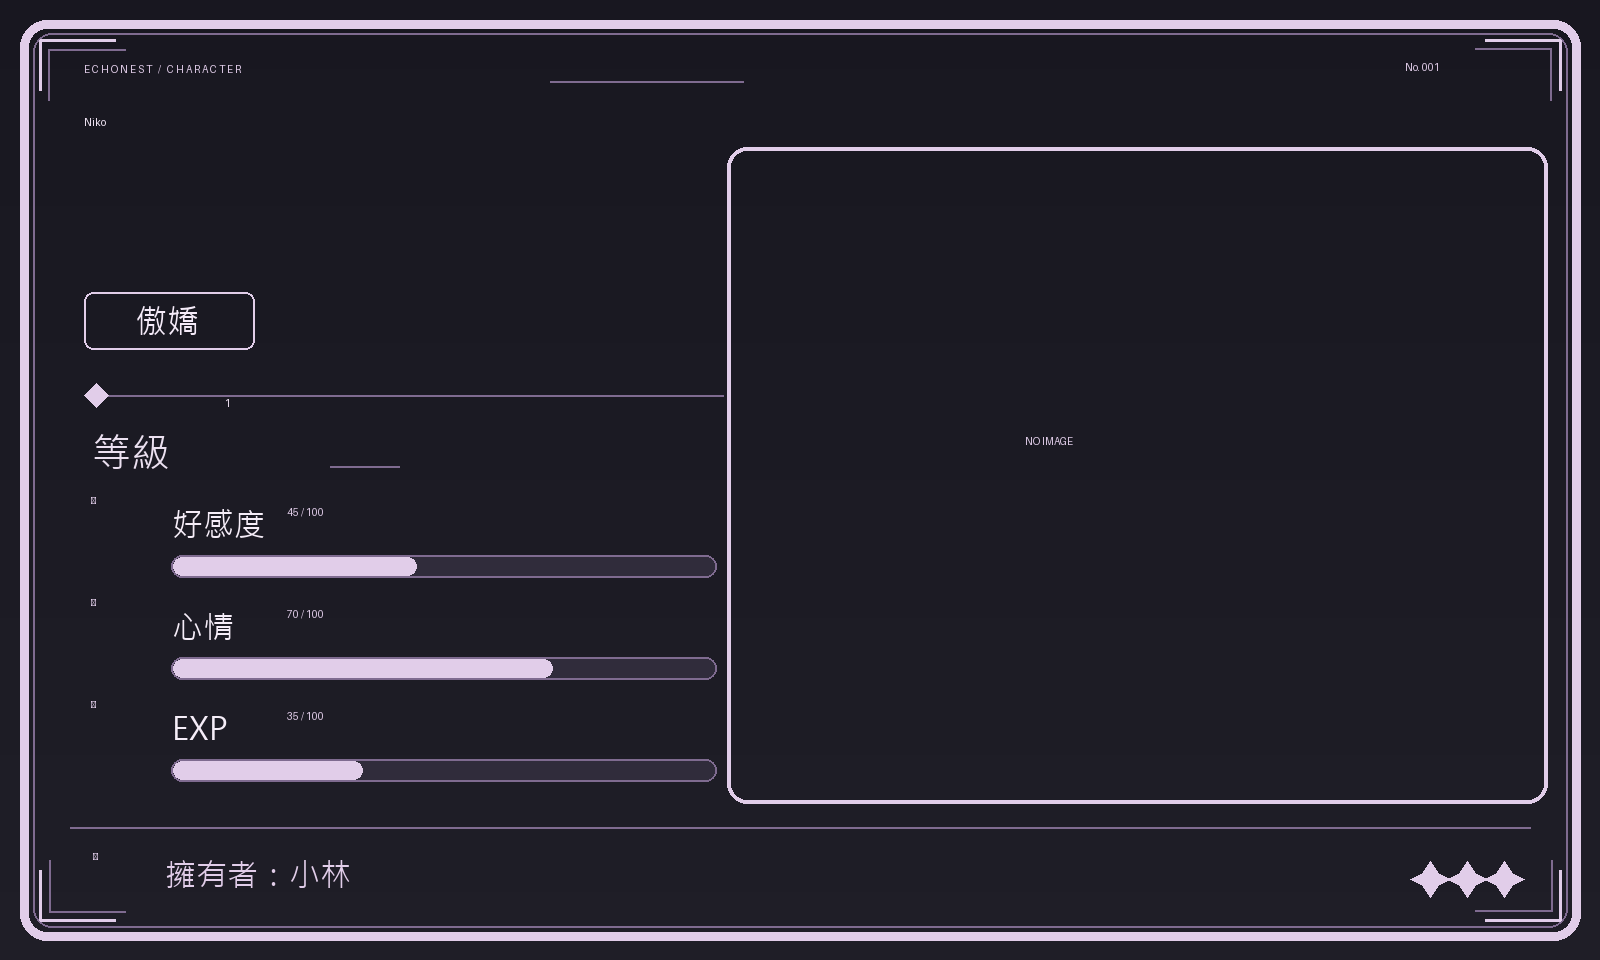
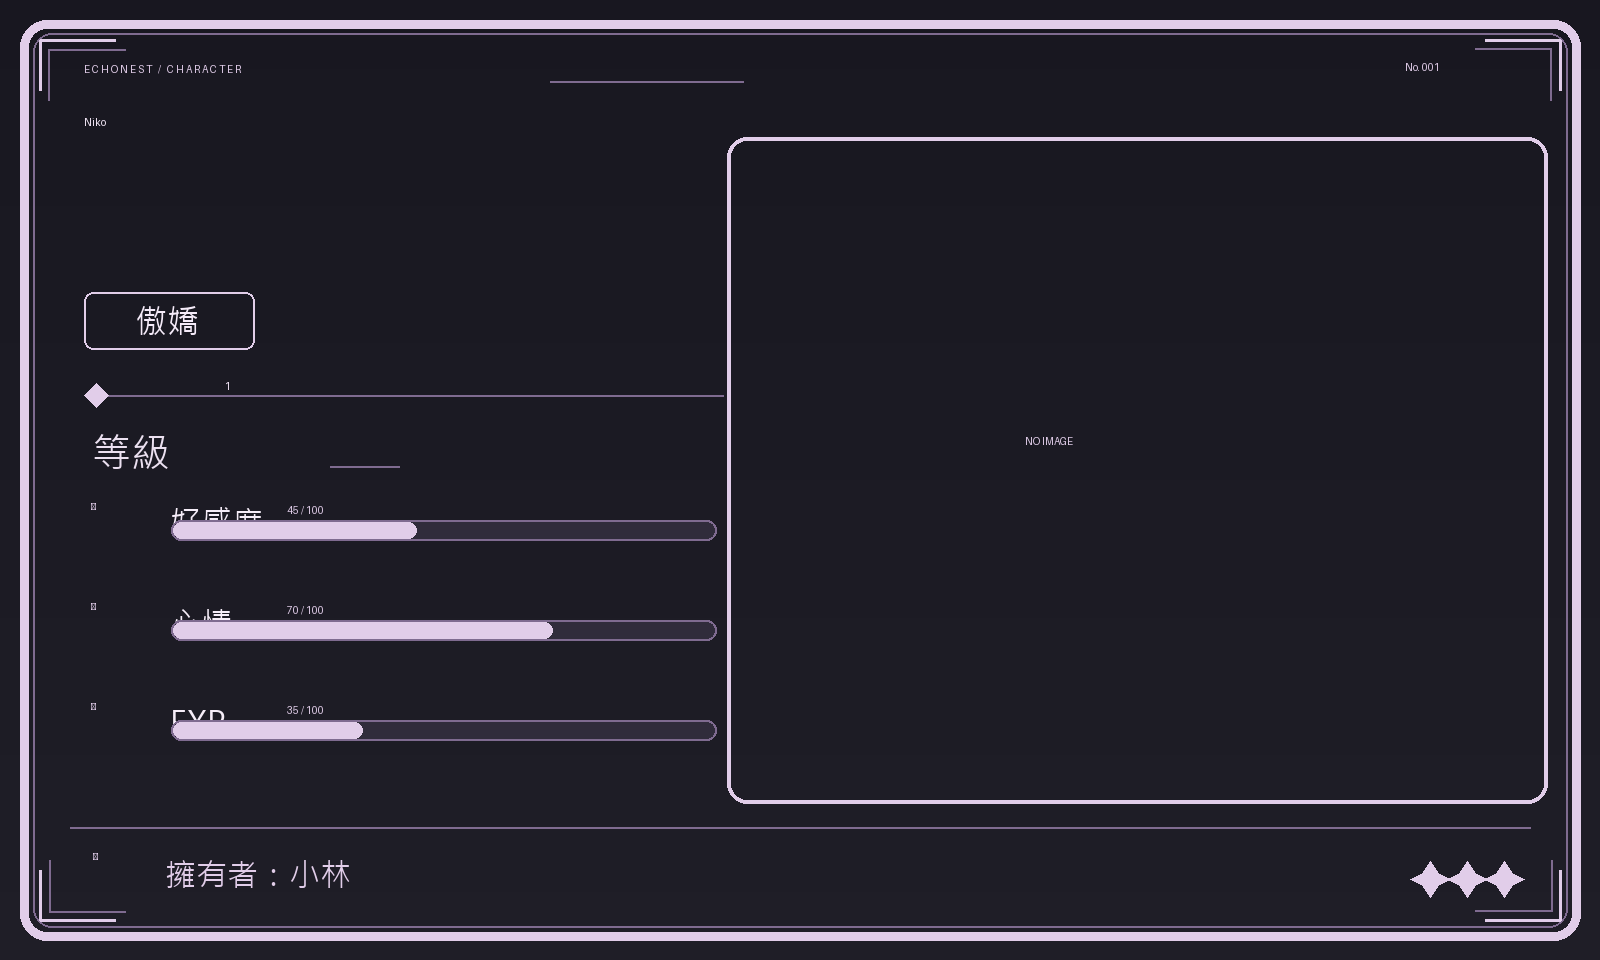
efes

Changed region(s): [[0.0938, 0.5312, 0.4375, 0.7188], [0.4688, 0.125, 0.9688, 0.1562], [0.0938, 0.75, 0.4375, 0.8125]]

diff --git a/character_card.py b/character_card.py
@@ -89,22 +89,23 @@ def render_card(name, personality, owner, mood, affection, level, exp, portrait=
     d.line((88,395,723,395),fill=muted,width=2)
     d.polygon([(84,395),(96,383),(108,395),(96,407)],fill=pale)
     d.text((92,425),'等級',font=font(39),fill=(235,224,240))
-    d.text((225,397),str(level),font=font(94,'number'),fill=(245,231,249))
+    d.text((225,380),str(level),font=font(94,'number'),fill=(245,231,249))
     d.line((330,466,399,466),fill=muted,width=2)
     def stat(y, symbol, label, value, maximum):
         x=91
-        d.text((x,y-8),symbol,font=font(43,'sans'),fill=pale)
-        d.text((172,y),label,font=font(31),fill=(245,237,248))
+        d.text((x,y),symbol,font=font(43,'sans'),fill=pale)
+        d.text((170,y),label,font=font(31),fill=(245,237,248))
         maximum=max(1,int(maximum))
         d.text((287,y+4),f'{value} / {maximum}',font=font(27,'sans'),fill=pale)
-        d.rounded_rectangle((171,y+53,716,y+75),radius=11,fill=(48,44,59),outline=muted,width=2)
+        d.rounded_rectangle((171,y+20,716,y+40),radius=11,fill=(48,44,59),outline=muted,width=2)
         ratio=max(0,min(float(value)/maximum,1))
         if ratio>0:
             width=max(9,round(541*ratio))
-            d.rounded_rectangle((173,y+55,173+width,y+73),radius=9,fill=pale)
-    stat(502,'♡','好感度',int(affection),100)
-    stat(604,'☁','心情',int(mood),100)
-    stat(706,'✧','EXP',int(exp)%100,100)
+            d.rounded_rectangle((173,y+22,173+width,y+38),radius=9,fill=pale)
+
+    stat(500,'♡','好感度',int(affection),100)
+    stat(600,'☁','心情',int(mood),100)
+    stat(700,'✧','EXP',int(exp)%100,100)
     # Portrait panel.
     frame=(730,140,1544,800)
     d.rounded_rectangle((frame[0]-3,frame[1]-3,frame[2]+3,frame[3]+3),radius=20,outline=pale,width=4)
